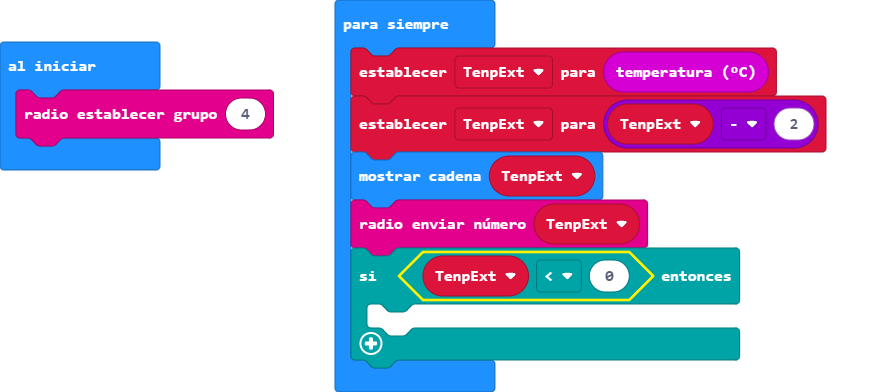
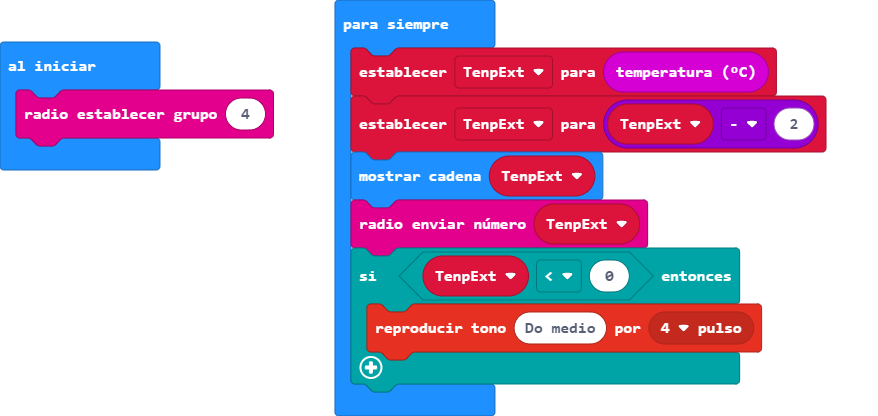
Actualizar main.blocks, main.ts

diff --git a/main.ts b/main.ts
@@ -6,6 +6,6 @@ basic.forever(function () {
     basic.showString("" + (TenpExt))
     radio.sendNumber(TenpExt)
     if (TenpExt < 0) {
-    	
+        music.playTone(262, music.beat(BeatFraction.Breve))
     }
 })
